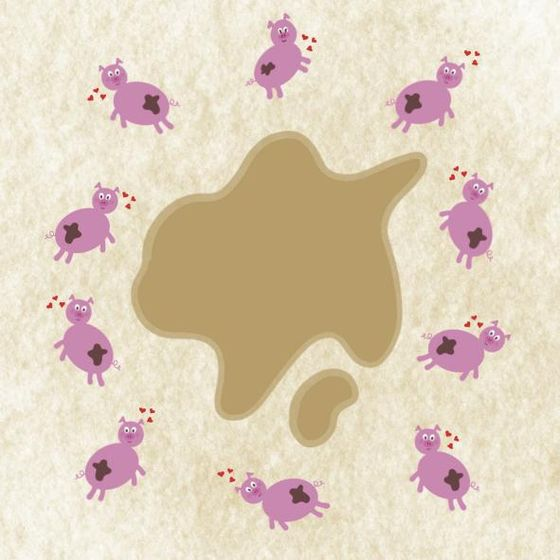
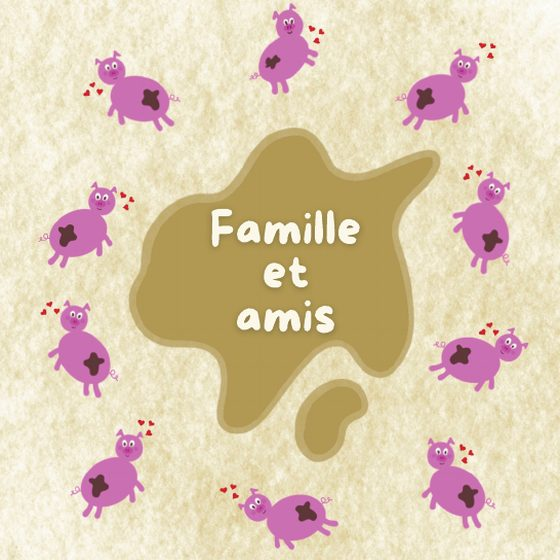
Lien vers /jouer depuis l'accueil et dos de cartes titrés
Bouton « Essayer gratuitement » dans le hero, lien « Essayer » dans le
menu, encart « Testez avant d'acheter » sous Comment on joue. Dos de
cartes des 5 thèmes avec leur nom, repris des planches recto-verso.

Claude-Session: https://claude.ai/code/session_013ePeggX7BxKVyatgfXoVYz

diff --git a/jouer/index.html b/jouer/index.html
@@ -90,11 +90,11 @@
   .choix small{font-weight:500;font-size:.85rem}
   .choix input:checked + span{border-color:var(--rose);background:var(--rose-clair);color:var(--brun-texte)}
   .choix input:focus-visible + span{outline:3px solid var(--bleu)}
-  .themes{display:grid;grid-template-columns:repeat(5,1fr);gap:8px}
+  .themes{display:grid;grid-template-columns:repeat(3,1fr);gap:10px}
   .theme{position:relative;text-align:center;font-size:.72rem;font-weight:700;line-height:1.1}
-  .theme img{border-radius:10px;margin-bottom:4px;box-shadow:0 3px 8px rgba(78,51,53,.18)}
-  .theme.verrou img{filter:grayscale(.65) brightness(.95);opacity:.75}
-  .theme.verrou::after{content:"🔒";position:absolute;top:4px;right:4px;font-size:.9rem}
+  .theme img{border-radius:12px;box-shadow:0 3px 8px rgba(78,51,53,.18)}
+  .theme.verrou img{filter:grayscale(.35);opacity:.8}
+  .theme.verrou::after{content:"🔒";position:absolute;top:6px;right:6px;font-size:1.1rem}
   .theme.libre::after{content:"Gratuit";position:absolute;top:-8px;left:50%;transform:translateX(-50%);background:var(--rose);color:#fff;font-size:.65rem;padding:2px 7px;border-radius:99px}
 
   /* Scores */
@@ -221,11 +221,11 @@
 
     <h3 style="color:var(--brun);font-size:1.25rem">Thème</h3>
     <div class="themes">
-      <div class="theme libre"><img src="img/dos/gouts.jpg" alt="" width="560" height="560">Goûts et passions</div>
-      <div class="theme verrou"><img src="img/dos/famille.jpg" alt="" width="560" height="560">Famille et amis</div>
-      <div class="theme verrou"><img src="img/dos/anecdotes.jpg" alt="" width="560" height="560">Anecdotes</div>
-      <div class="theme verrou"><img src="img/dos/quotidien.jpg" alt="" width="560" height="560">Vie quoti&shy;dienne</div>
-      <div class="theme verrou"><img src="img/dos/voyages.jpg" alt="" width="560" height="560">Voyages et vacances</div>
+      <div class="theme libre"><img src="img/dos/gouts.jpg" alt="Goûts et passions (gratuit)" width="560" height="560"></div>
+      <div class="theme verrou"><img src="img/dos/famille.jpg" alt="Famille et amis (dans la boîte)" width="560" height="560"></div>
+      <div class="theme verrou"><img src="img/dos/anecdotes.jpg" alt="Anecdotes (dans la boîte)" width="560" height="560"></div>
+      <div class="theme verrou"><img src="img/dos/quotidien.jpg" alt="Vie quotidienne (dans la boîte)" width="560" height="560"></div>
+      <div class="theme verrou"><img src="img/dos/voyages.jpg" alt="Voyages et vacances (dans la boîte)" width="560" height="560"></div>
     </div>
     <p style="font-size:.92rem">Les 4 autres thèmes (48 cartes) sont dans le jeu en boîte.</p>
 

diff --git a/index.html b/index.html
@@ -25,6 +25,7 @@
     <a class="logo" href="#" aria-label="...Comme cochons, accueil"><img src="img/logo-tache-sm.png" alt="...Comme cochons" width="272" height="291"></a>
     <div class="liens">
       <a href="#jouer">Le jeu</a>
+      <a href="/jouer/">Essayer</a>
       <a href="#themes">Les thèmes</a>
       <a href="#boite3d">La boîte</a>
       <a href="#faq">FAQ</a>
@@ -44,7 +45,7 @@
       </div>
       <div class="ctas">
         <a class="btn gros" href="#offres">Précommander · 24,99 €</a>
-        <a class="btn secondaire" href="#jouer">Comment on joue ?</a>
+        <a class="btn secondaire" href="/jouer/">🐷 Essayer gratuitement</a>
       </div>
       <ul class="rassurance">
         <li>🚚 Livraison offerte</li>
@@ -80,6 +81,14 @@
       <div class="etape"><h3>Réponse secrète</h3><p>La personne visée écrit sa vraie réponse sur un papier, sans rien dire.</p></div>
       <div class="etape"><h3>Une minute pour deviner</h3><p>Le sablier tourne : son équipe débat et propose une réponse. Juste ? Les points sont pour vous.</p></div>
       <div class="etape"><h3>Premier à 20</h3><p>La première équipe à 20 points gagne, à condition de finir sur une question à 3 points.</p></div>
+    </div>
+    <div class="essai">
+      <img src="jouer/img/cochons/telephone.png" alt="" width="320" height="300" loading="lazy">
+      <div>
+        <h3>Testez avant d'acheter</h3>
+        <p>Jouez gratuitement aux 12 cartes « Goûts et passions » avec un seul téléphone : sablier, scores et deuxième chance inclus.</p>
+      </div>
+      <a class="btn" href="/jouer/">Jouer gratuitement</a>
     </div>
   </div>
 </section>

diff --git a/style.css b/style.css
@@ -270,3 +270,11 @@ footer a{margin:0 10px}
 .cadre3d{height:600px}
 .cadre3d iframe{width:100%;height:100%;border:0;background:transparent;display:block}
 @media(max-width:560px){.cadre3d{height:460px}}
+
+/* Encart « Testez avant d'acheter » (lien vers /jouer) */
+.essai{display:flex;align-items:center;gap:20px;margin-top:34px;background:var(--blanc);border:3px solid var(--rose);border-radius:var(--rayon);padding:18px 24px}
+.essai img{width:96px;height:auto;flex:none}
+.essai h3{color:var(--rose-fonce);margin:0 0 .2em}
+.essai p{margin:0;color:var(--texte-doux)}
+.essai .btn{flex:none;margin-left:auto}
+@media(max-width:700px){.essai{flex-direction:column;text-align:center;padding:18px}.essai .btn{margin:0 auto}}
